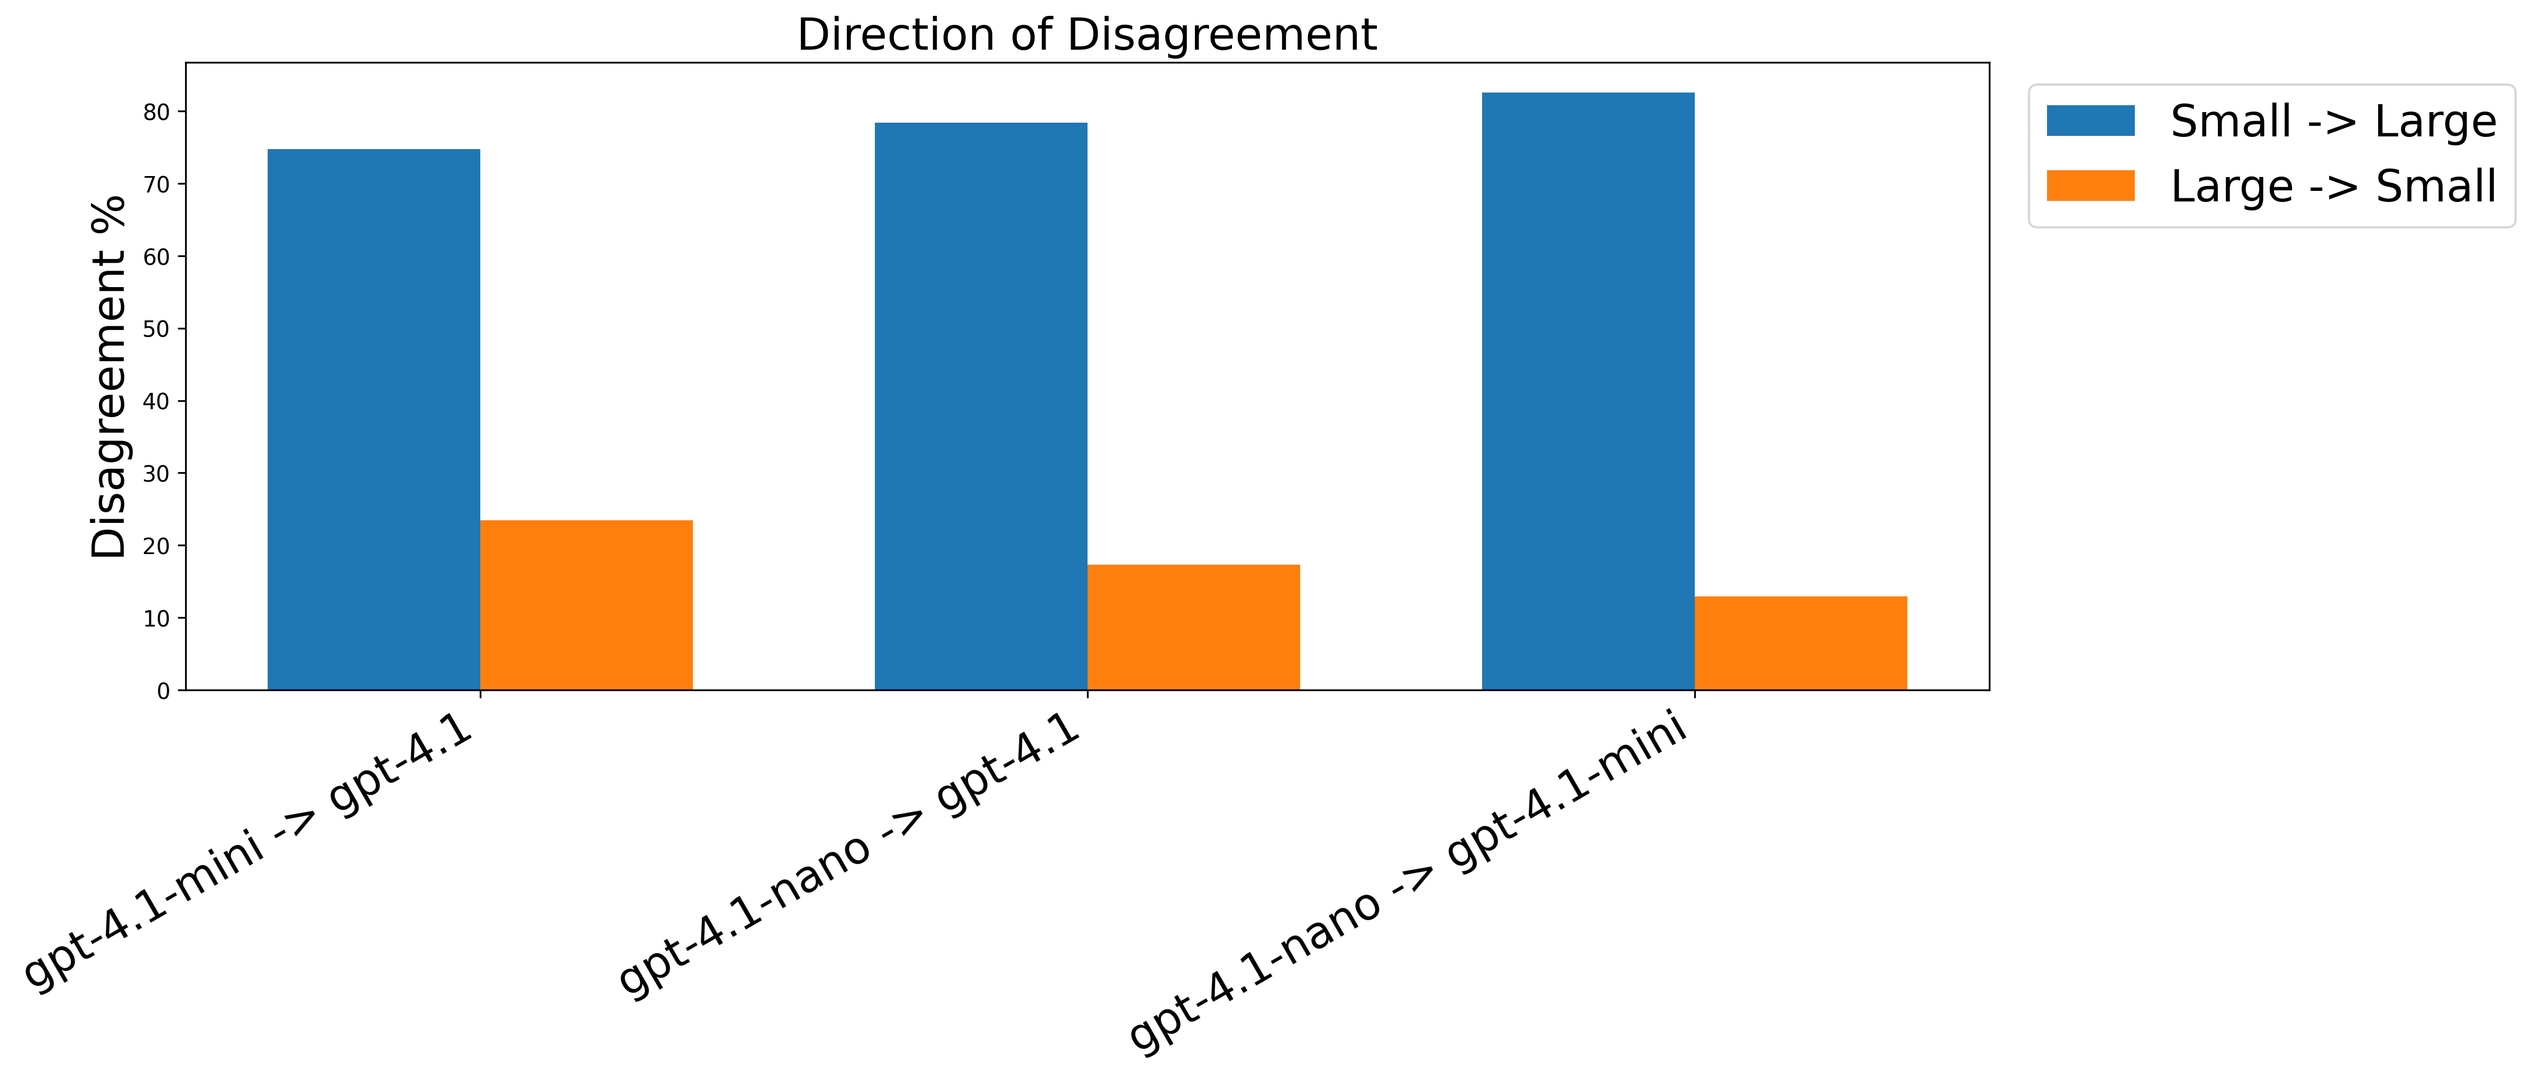
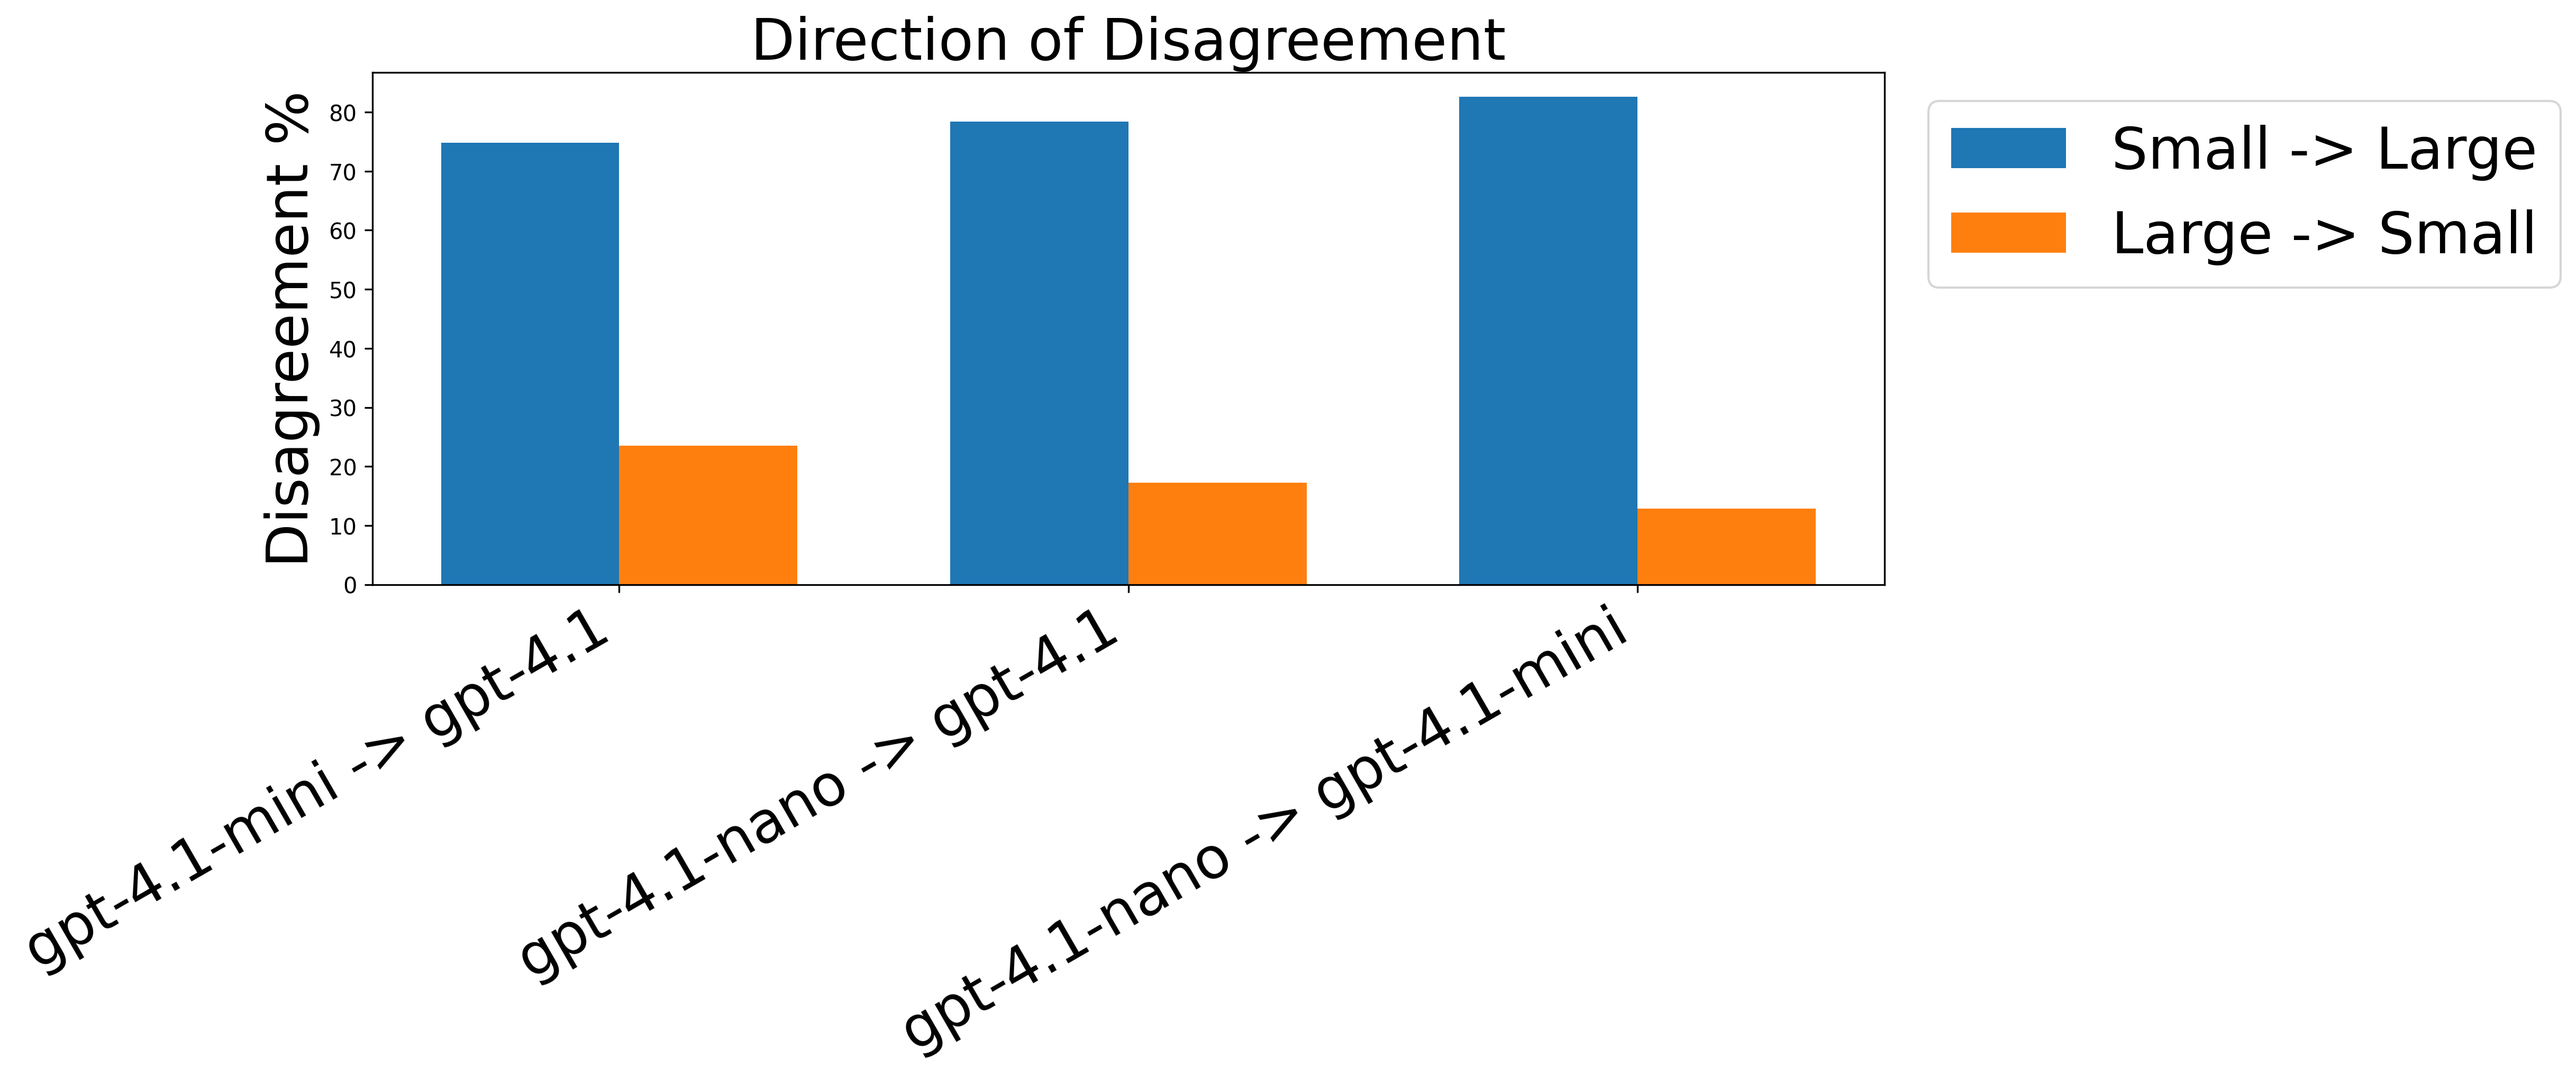
Made deference file sbigger

diff --git a/Analysis_files/HLE_accuracy_plot.py b/Analysis_files/HLE_accuracy_plot.py
@@ -73,11 +73,11 @@ def plot_deference_direction(output_dir, out_path):
     plt.figure(figsize=(16, 7))
     plt.bar(x - width / 2, small_to_large, width, label="Small -> Large")
     plt.bar(x + width / 2, large_to_small, width, label="Large -> Small")
-    plt.xticks(x, labels, rotation=30, ha="right", fontsize=20)
-    plt.yticks(fontsize=20)
-    plt.ylabel("Disagreement %", fontsize=20)
-    plt.title("Direction of Deference", fontsize=20)
-    plt.legend(fontsize=20, loc='upper left', bbox_to_anchor=(1.01, 1))
+    plt.xticks(x, labels, rotation=30, ha="right", fontsize=26)
+    plt.yticks(fontsize=26)
+    plt.ylabel("Disagreement %", fontsize=26)
+    plt.title("Direction of Deference", fontsize=26)
+    plt.legend(fontsize=26, loc='upper left', bbox_to_anchor=(1.01, 1))
     plt.tight_layout(pad=1.5)
 
     os.makedirs(os.path.dirname(out_path), exist_ok=True)
@@ -105,11 +105,11 @@ def plot_deference_accuracy_outcomes(output_dir, out_path):
     plt.bar(x - 0.5 * width, s2l_c2w, width, label="s2l: correct -> wrong")
     plt.bar(x + 0.5 * width, l2s_w2c, width, label="l2s: wrong -> correct")
     plt.bar(x + 1.5 * width, l2s_c2w, width, label="l2s: correct -> wrong")
-    plt.xticks(x, labels, rotation=30, ha="right", fontsize=20)
-    plt.yticks(fontsize=20)
-    plt.ylabel("Deference %", fontsize=20)
-    plt.title("Deference Accuracy Outcomes", fontsize=20)
-    plt.legend(fontsize=20, loc='upper left', bbox_to_anchor=(1.01, 1))
+    plt.xticks(x, labels, rotation=30, ha="right", fontsize=26)
+    plt.yticks(fontsize=26)
+    plt.ylabel("Deference %", fontsize=26)
+    plt.title("Deference Accuracy Outcomes", fontsize=26)
+    plt.legend(fontsize=26, loc='upper left', bbox_to_anchor=(1.01, 1))
     plt.tight_layout(pad=1.5)
 
     os.makedirs(os.path.dirname(out_path), exist_ok=True)
@@ -170,7 +170,7 @@ def plot_combined_variants(parent_output_dir, out_path):
     plt.xticks(rounds_n, fontsize=20)
     plt.yticks(fontsize=20)
     plt.xlabel("Deliberation Round", fontsize=20)
-    plt.ylabel("Accuracy (all models correct) (%)", fontsize=18)
+    plt.ylabel("Accuracy (all models correct) (%)", fontsize=20)
     plt.title("Accuracy Across Rounds — Named vs Anonymous", fontsize=20)
     plt.legend(fontsize=20)
     plt.grid(True, alpha=0.3)
@@ -195,7 +195,7 @@ def plot_combined_rotated_variants(parent_output_dir, out_path):
     plt.xticks(rounds_n, fontsize=20)
     plt.yticks(fontsize=20)
     plt.xlabel("Deliberation Round", fontsize=20)
-    plt.ylabel("Accuracy (all models correct) (%)", fontsize=18)
+    plt.ylabel("Accuracy (all models correct) (%)", fontsize=20)
     plt.title("Accuracy Across Rounds — Named Rotated vs Anonymous Rotated", fontsize=20)
     plt.legend(fontsize=20)
     plt.grid(True, alpha=0.3)

diff --git a/Analysis_files/all_plots.py b/Analysis_files/all_plots.py
@@ -46,10 +46,10 @@ def plot_deference(data, out_path):
     plt.figure(figsize=(16, 7))
     plt.bar(x - width / 2, small_to_large, width, label="Small -> Large")
     plt.bar(x + width / 2, large_to_small, width, label="Large -> Small")
-    plt.xticks(x, labels, rotation=30, ha="right", fontsize=20)
-    plt.ylabel("Disagreement %", fontsize=20)
-    plt.title("Direction of Disagreement", fontsize=20)
-    plt.legend(fontsize=20, loc='upper left', bbox_to_anchor=(1.01, 1))
+    plt.xticks(x, labels, rotation=30, ha="right", fontsize=26)
+    plt.ylabel("Disagreement %", fontsize=26)
+    plt.title("Direction of Disagreement", fontsize=26)
+    plt.legend(fontsize=26, loc='upper left', bbox_to_anchor=(1.01, 1))
     plt.tight_layout(pad=1.5)
 
     os.makedirs(os.path.dirname(out_path), exist_ok=True)
